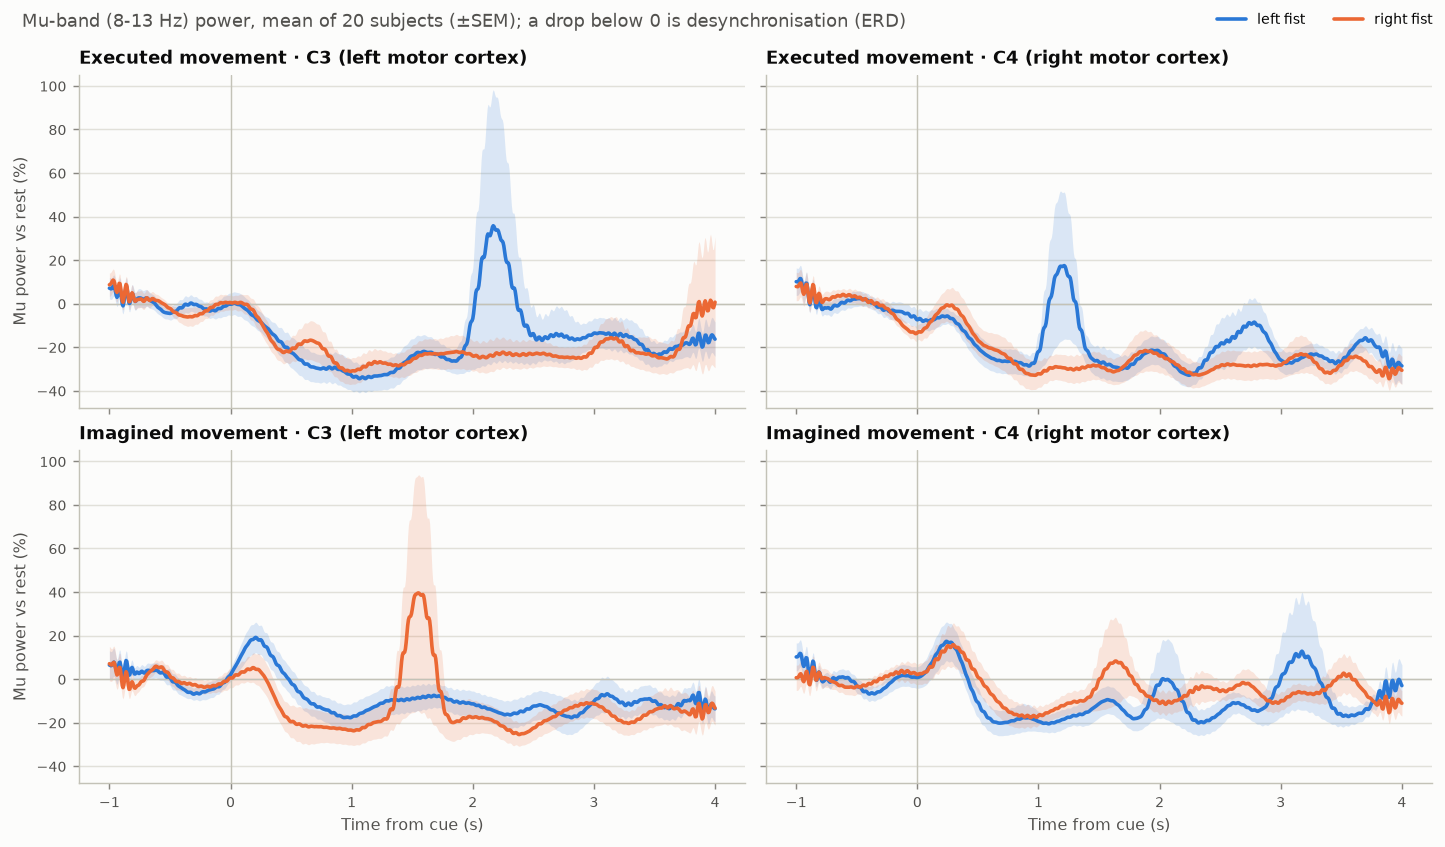
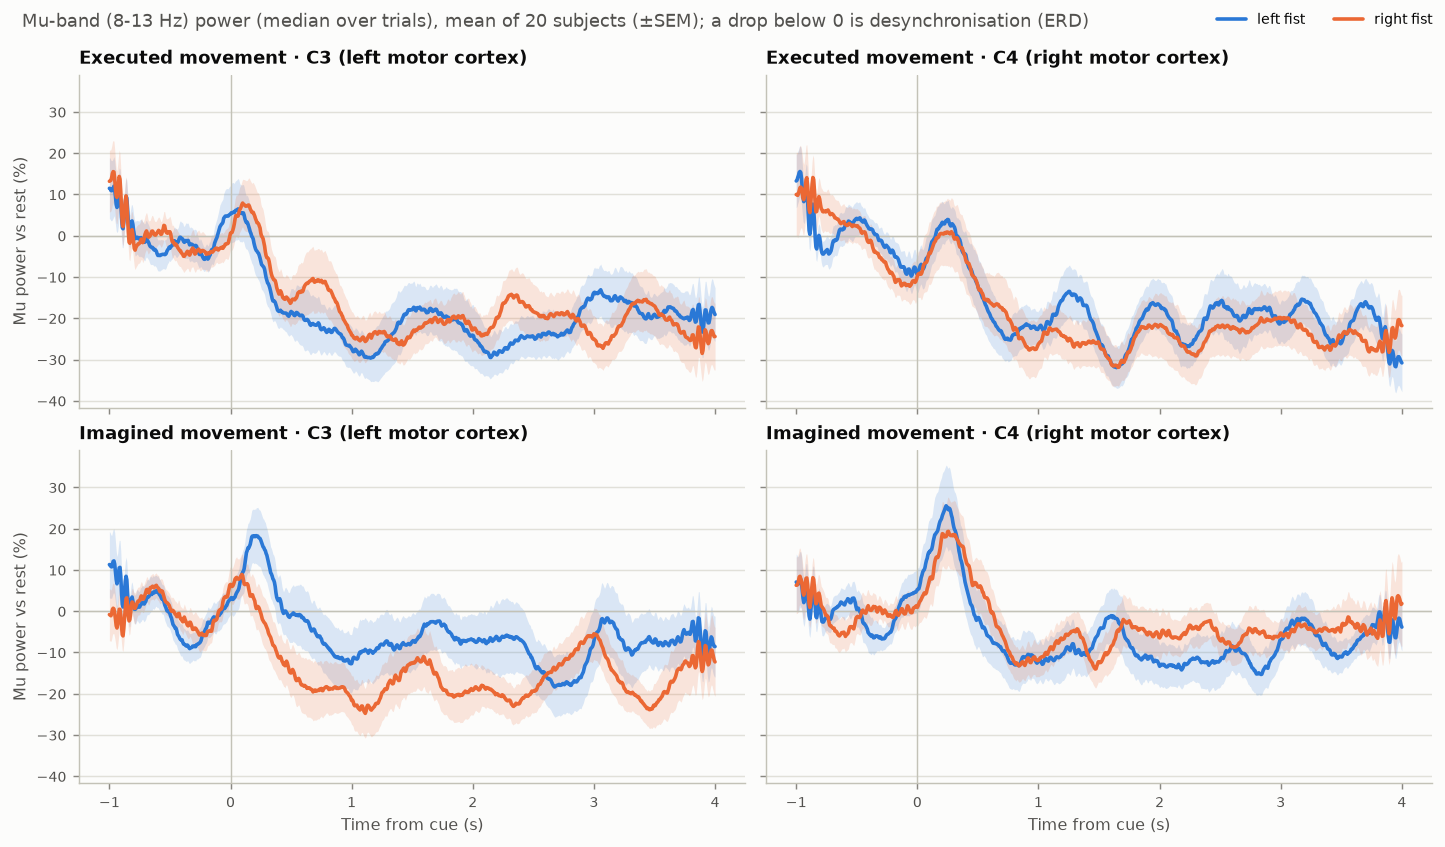
Regenerate the results page from the final script
The motor time courses now use the median over trials (a single artifact
trial had produced spikes with huge error bands), and three sentences are
worded more carefully. All numbers are unchanged.

Claude-Session: https://claude.ai/code/session_01NG5RePbpvkrqokvWVeR76w

diff --git a/docs/results.md b/docs/results.md
@@ -18,8 +18,8 @@ the dataset.
 
 ## 1. Eyes closed vs eyes open: alpha (Berger effect)
 
-Closing the eyes increases posterior alpha (8-13 Hz) power, the first EEG effect
-ever described (Berger, 1929). Method: 1-45 Hz band-pass, average reference,
+Closing the eyes increases posterior alpha (8-13 Hz) power, one of the first EEG
+effects ever described (Berger, 1929). Method: 1-45 Hz band-pass, average reference,
 Welch spectrum, alpha power averaged over O1, Oz, O2, PO7, PO3, POz, PO4, PO8.
 
 **Result:** alpha power was higher with eyes closed in **20 of 20**
@@ -78,7 +78,8 @@ Lopes da Silva, 1999). Method: three runs per task joined, 1-40 Hz band-pass,
 Hjorth Laplacian, epochs -1 to 4 s around the cue (about 45 per subject), band
 power 0.5-4 s compared with the second before the cue. Decoding: shrinkage LDA
 on log mu and beta power at C3, Cz and C4 (6 features, chosen in advance),
-5-fold cross-validation repeated 10 times.
+5-fold cross-validation repeated 10 times. The time-course figure shows the
+median over trials, so a single artifact-laden trial cannot dominate it.
 
 Median ERD/ERS (negative = power drop):
 
@@ -124,9 +125,8 @@ condition, mean amplitude at Pz 300-500 ms.
 **Result:** targets produced a larger positive wave than standard tones in
 **13 of 13** subjects (median **+6.9 µV**, Wilcoxon
 p = 2.4e-4); median target peak latency at Pz
-**422 ms**. Distractor noises:
-(median +1.7 µV vs standard). The target-minus-standard map peaks
-at Pz.
+**422 ms**. Distractor noises: median +1.7 µV vs
+standard over the same window. The target-minus-standard map peaks at Pz.
 
 ![P300](images/results/p300_oddball.png)
 
